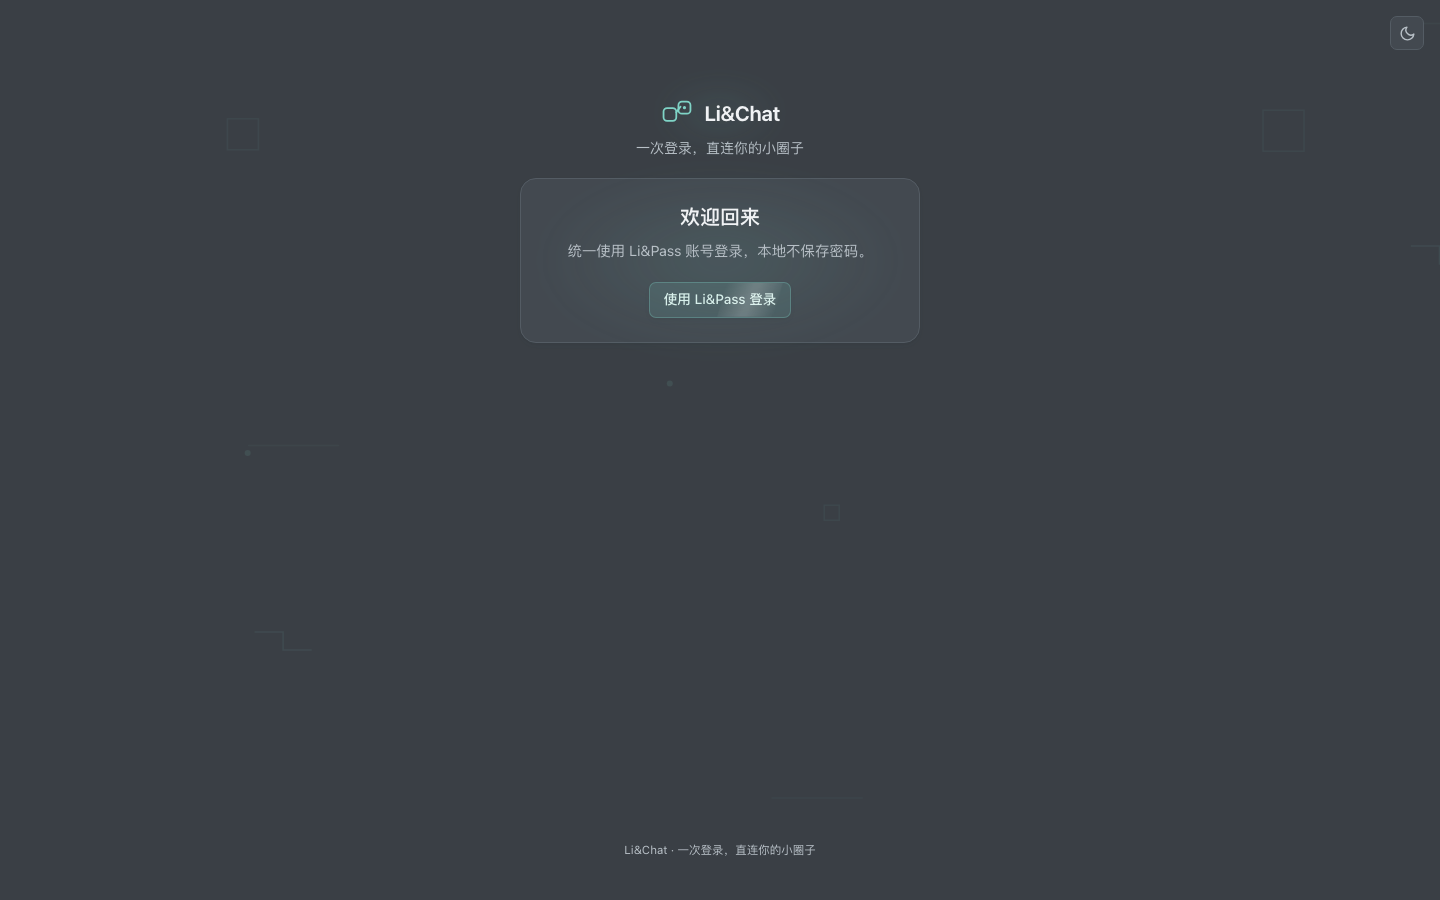
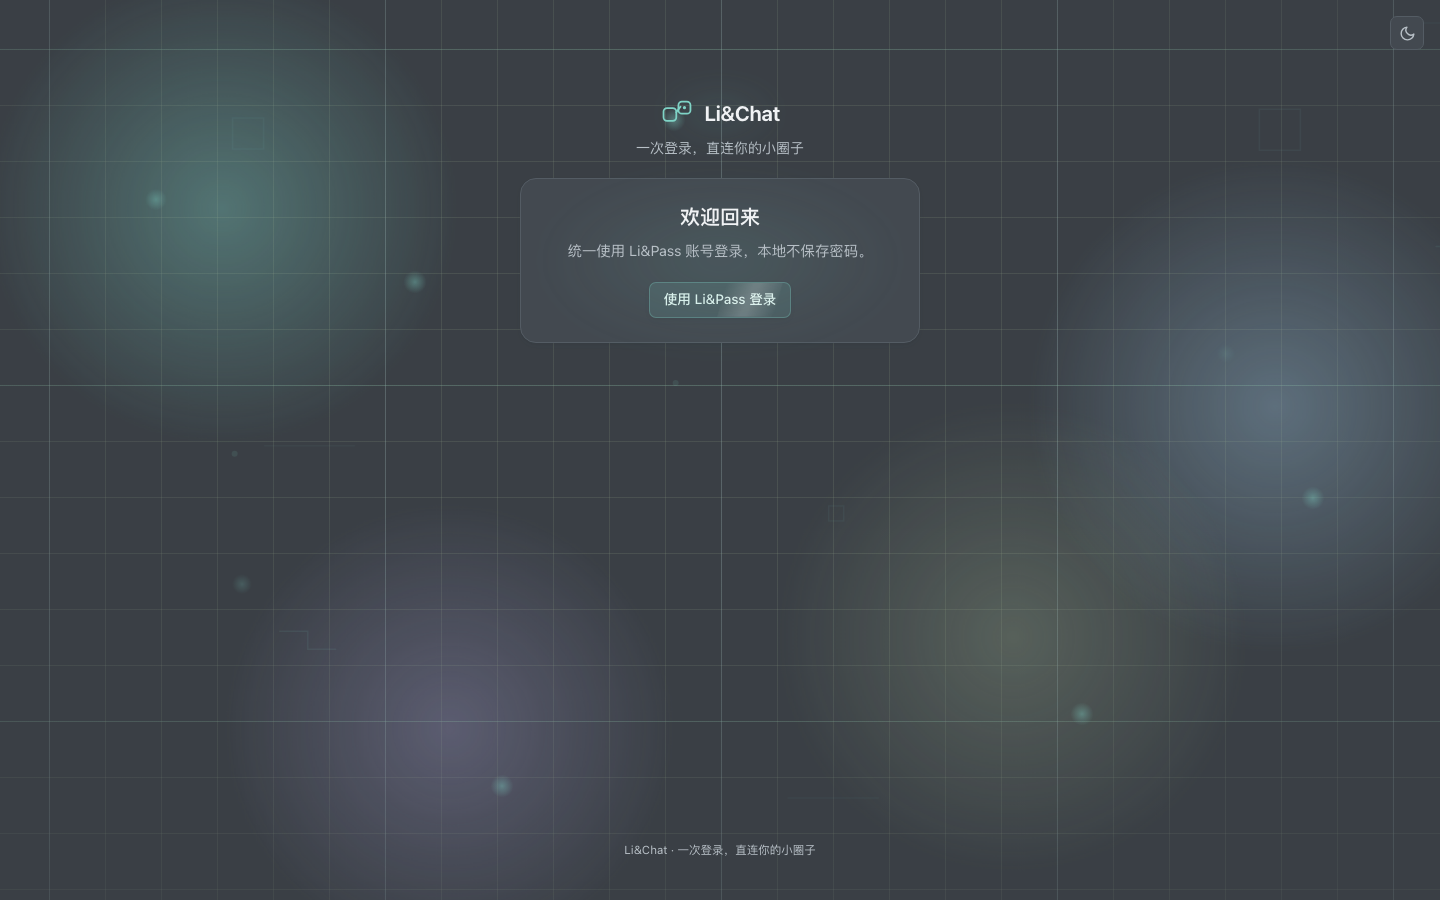
docs: 特效层采纳规格、BRAND/MASTER 回写与预览基线重拍

diff --git a/docs/superpowers/specs/2026-08-17-design-template-v12-effects-adoption-design.md b/docs/superpowers/specs/2026-08-17-design-template-v12-effects-adoption-design.md
@@ -1,0 +1,43 @@
+# Li-Design V1.2 页面特效层采纳设计规格（补遗二）
+
+> 日期：2026-08-17 ｜ 状态：设计中 ｜ 分支：`codex/lipass-effects-sync`
+> 前序规格：`...-palette-adoption-design.md`（其「科技光效层不采用」决策按本次用户指令修订：
+> 页面特效层一并采纳）
+
+## 1. 目标
+
+在已采纳的海玻璃配色之上，补上 Li-Design V1.2 的**页面特效层**：极光层（AuroraBackground，
+4 枚弥散光斑）+ 科技光效层（TechAmbience，缓移网格 + 3 条错峰光束 + 8 枚呼吸光点）。
+与既有 Canvas 氛围四模式叠加，构成模板的三层氛围栈；纯 CSS 实现、零第三方依赖。
+
+## 2. 参数（模板 §2.4.1 / 组件表定稿值）
+
+| 层 | 元素 | 节奏 |
+| --- | --- | --- |
+| 极光 | 4 枚光斑，radial-gradient 软斑（不用 filter/blur），transform 漂移 + scale | 18/22/28/24s，alternate |
+| 科技网格 | 56px 基线 + 336px 亮线双层 repeating-gradient + 径向渐隐遮罩，`background-position` 漂移 336px（6 格，无缝） | 12s linear infinite |
+| 科技光束 | 斜切 16° 透明渐变带，`translateX` 扫过并长停顿；基态 opacity 0 | 10s，错峰 0.8/4.2/7.5s |
+| 科技光点 | 7px 圆点 + radial 辉光（无 box-shadow/filter），opacity/transform 脉动 + 上浮 | 6s，8 枚错峰 |
+
+## 3. 结构
+
+- `static/index.html`：`<body>` 顶部新增 `.aurora`（4×`.aurora-blob`）与
+  `.tech-ambience`（`.tech-grid` + 3×`.tech-beam` + 8×`.tech-dot`），`aria-hidden`。
+- 层级：极光/科技层 `position:fixed; z-index:0`，位于 `#app`（z-1）之下；Canvas 氛围层
+  仍在最上（DOM 末尾追加）。所有层 `pointer-events:none`。
+- `static/app.js` `mount()`：登录后外壳给两特效容器加 `aurora-soft`/`tech-soft`
+  （整体 opacity 0.55 降浓度）；认证页默认浓度。
+
+## 4. 铁律落地
+
+- 只动 `transform/opacity/background-position`；辉光用 radial-gradient，禁用
+  `filter/box-shadow` 动画；每个 `animation` 都有对应 `@keyframes`。
+- 移动端（<768px）：隐藏光束/光点、停用网格动画、极光更慢更淡。
+- `prefers-reduced-motion`：全局既有规则降为单帧（光束基态不可见即静止关闭）。
+
+## 5. 验收标准
+
+- [ ] 认证页：网格/光束/光点/极光四个 animation 计算值与 `@keyframes` 一一对应
+- [ ] 登录后外壳：`.tech-soft`/`.aurora-soft` 生效，opacity 0.55
+- [ ] 移动端 375：光束/光点 `display:none`、网格动画 none
+- [ ] `pytest -q` / `ruff check .` / `mypy app` 全绿；CDP 断言全过；六张预览重拍

diff --git a/design-system/chat/MASTER.md b/design-system/chat/MASTER.md
@@ -35,6 +35,8 @@ destructive `#FDEEEE`/`#7F1D1D`）；带文字的软底组件经 fallback 引用
 | .icon-btn / .theme-toggle | 44px 图标按钮；明暗图标随 .dark 切换 |
 | .spinner / .page-enter | 加载与入场 |
 | .ambient-layer | Canvas 氛围层容器（z-0、pointer-events:none） |
+| .aurora / .aurora-blob | 极光层：4 枚 radial-gradient 光斑漂移（18/22/28/24s，alternate），登录后 `.aurora-soft` |
+| .tech-ambience / .tech-grid / .tech-beam / .tech-dot | 科技光效层：缓移网格 12s + 3 条错峰光束 10s + 8 枚呼吸光点 6s；登录后 `.tech-soft`，移动端隐藏光束/光点并停网格 |
 | .toast / .toast-region | 全局反馈（success/error/info，安全区置顶，自动消退） |
 | .skeleton-* | 骨架屏 shimmer（reduced-motion 静止） |
 | .message-day / .message-sender / .message-merged | 日期分组与连续消息合并 |
@@ -81,6 +83,13 @@ RGB 调校审计（2026-08-17，模板 V1.2 附录 E 方法）：模板原值四
 保证明暗两套可读。按钮状态纪律审计：现有异步动作的 pending 均为单按钮/消息气泡
 spinner，无成对按钮双转圈。每个新增 `animation` 均已定义对应 `@keyframes`
 （`chat-btn-sweep`、`chat-halo-breathe`），reduced-motion 下全局降为单帧。
+
+页面特效层回归（2026-08-17，CDP）：认证页 `.tech-grid/.tech-beam/.tech-dot/.aurora-blob`
+四个动画名与对应 `@keyframes`（`tech-grid-drift`/`tech-beam-sweep`/`tech-dot-breathe`/
+`aurora-drift-1..4`）逐项断言通过；登录后外壳 `.tech-soft`/`.aurora-soft` 生效（opacity
+0.55）；移动端 375 下光束/光点 `display:none`、网格动画 `none`、极光 52s 慢速。光效层
+只动 `transform/opacity/background-position`，辉光用 radial-gradient、无 filter/box-shadow
+动画，`aria-hidden` + `pointer-events:none`，位于内容层（z-1）之下。
 
 布局回归（2026-08-16，微信式布局）：桌面 1440×900 与移动 390×844 经无头浏览器程序化验收——
 页面 `scrollY=0`、`body overflow:hidden`、无横向溢出、聊天框内部滚动（可见高度 < 内容高度）、

diff --git a/CHANGELOG.md b/CHANGELOG.md
@@ -24,6 +24,10 @@
 - 全量采纳 Li-Design V1.2 海玻璃配色方案：浅色全淡色（bg `#F6FBF9`、主色 `#25786D`、
   雾面中性色）+ 深色 D1 雾灰中间调（bg `#3A3F45`、主色 `#7FD4C6`）+ secondary 与六强调
   色板（ice/aqua/lilac/sage/mint/sand 明暗两套）+ 水绿 tint 阴影；品牌位/首帧主题同步
+- 页面特效层落地（Li-Design V1.2）：极光层 4 枚弥散光斑（18/22/28/24s 漂移）+ 科技光效
+  层（56px/336px 双层缓移网格 12s、3 条错峰光束 10s、8 枚呼吸光点 6s）；认证页默认浓度、
+  登录后外壳 `.tech-soft`/`.aurora-soft` 降浓度，移动端隐藏光束/光点并停网格动画，
+  reduced-motion 单帧，全部 `aria-hidden` + `pointer-events:none`
 
 ### 安全加固
 
